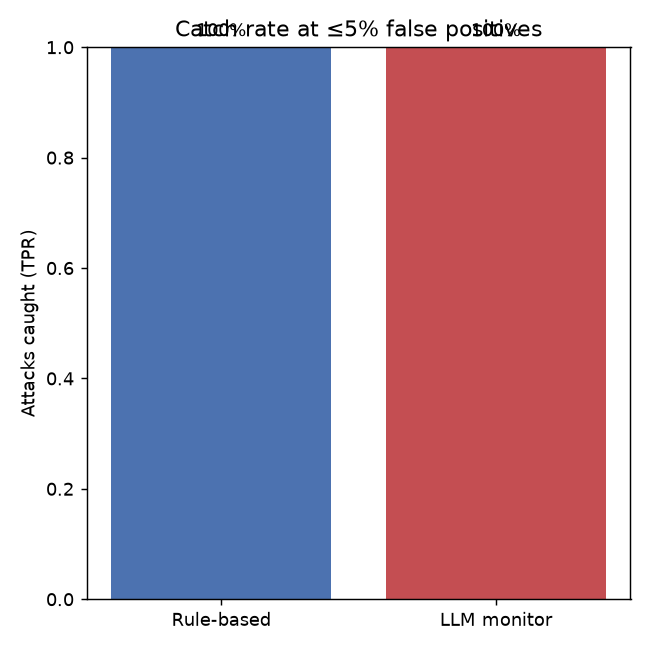
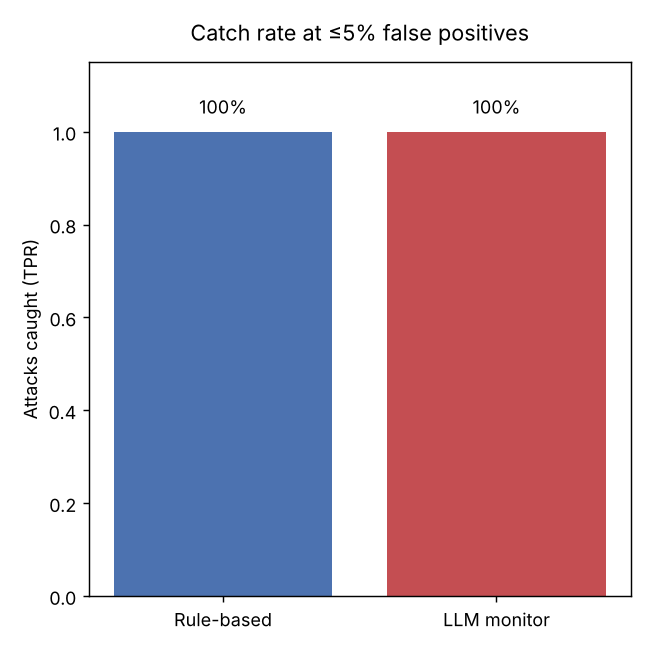
Fix catch_rate chart: value labels collided with title at 100%
At 100% the bar labels were drawn at y=1.02, above the ylim top, overlapping
the title and garbling it. Raise ylim to 1.15, pad the title, anchor labels.
Regenerate the committed figure from the Path-2 values.

Claude-Session: https://claude.ai/code/session_01W36CsiciQL92Q5SWPqsKpY

Changed region(s): [[0.0308, 0.0308, 0.9846, 0.9846]]

diff --git a/score.py b/score.py
@@ -196,11 +196,14 @@ def main():
         plt.figure(figsize=(5, 5))
         bars = plt.bar(["Rule-based", "LLM monitor"],
                        [rb_cr or 0, lm_cr or 0], color=["#4C72B0", "#C44E52"])
-        plt.ylim(0, 1)
+        # headroom so the value labels never collide with the title at 100%
+        plt.ylim(0, 1.15)
         plt.ylabel("Attacks caught (TPR)")
-        plt.title(f"Catch rate at ≤{int(args.target_fpr*100)}% false positives")
+        plt.title(f"Catch rate at ≤{int(args.target_fpr*100)}% false positives",
+                  pad=12)
         for b, v in zip(bars, [rb_cr or 0, lm_cr or 0]):
-            plt.text(b.get_x() + b.get_width() / 2, v + 0.02, f"{v:.0%}", ha="center")
+            plt.text(b.get_x() + b.get_width() / 2, v + 0.03, f"{v:.0%}",
+                     ha="center", va="bottom")
         plt.tight_layout()
         plt.savefig(os.path.join(config.RESULTS_DIR, "catch_rate.png"), dpi=130)
         plt.close()
